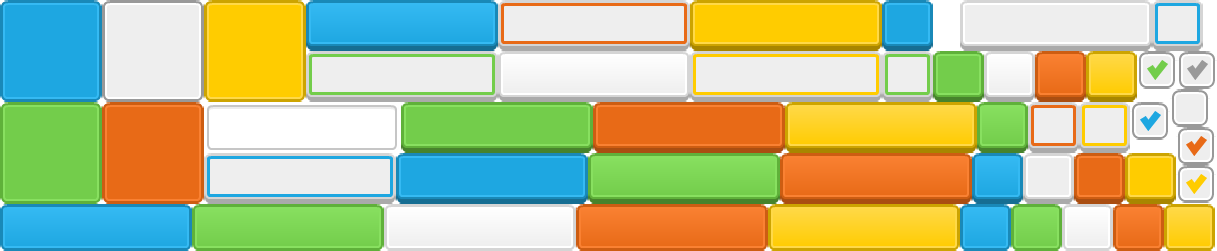
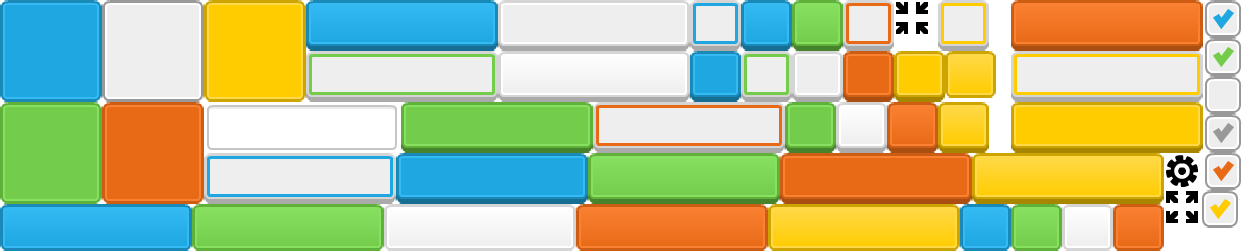
create imageButton and add resources for fullScreen and settings buttons

diff --git a/game/js/ui/Button.js b/game/js/ui/Button.js
@@ -1,36 +1,15 @@
 /* global Phaser */
 
+const AbstractButton = require('./AbstractButton')
 const Label = require('./Label')
 
-class Button extends Phaser.Group {
+class Button extends AbstractButton {
   constructor (game, x, y, text, style, parent) {
-    super(game, parent, 'button')
-
-    this.frame = (style && style.frame) || 'buttonLarge'
-    this.sheet = (style && style.sheet) || 'sheet'
-    this.disabledSheet = (style && style.disabledSheet) || 'grey_out'
-    this.customButton = this.frame.indexOf('button') === 0
-
-    this.frameOver = this.frame + (this.customButton ? '' : '_over')
-    this.frameOut = this.frame + (this.customButton ? '' : '_out')
-    this.frameDown = this.frame + (this.customButton ? '' : '_down')
-
-    this.background = this.game.add.button(0, 0, this.sheet, null, null, this.frameOver, this.frameOut, this.frameDown, this.frameOver, this)
-    this.background.anchor.set(0.5)
-
-    if (style.size === undefined) style.size = this.background.height / 2
+    super(game, x, y, style, parent)
 
     this.label = new Label(this.game, 0, 4, text, style, this)
     this.label.anchor.set(0.5)
 
-    this.x = x
-    this.y = y
-
-    this.clickSound = this.game.add.audio('click')
-
-    this.onInputDown = this.background.onInputDown
-    this.onInputUp = this.background.onInputUp
-    this.background.onInputDown.add(this.playSound, this)
   }
 
   get text () {
@@ -41,17 +20,6 @@ class Button extends Phaser.Group {
     this.label.text = value
   }
 
-  playSound () {
-    this.clickSound.play()
-  }
-
-  set disabled (isDisabled) {
-    if (isDisabled) {
-      this.background.setFrames(this.disabledSheet, this.disabledSheet, this.disabledSheet, this.disabledSheet)
-    } else {
-      this.background.setFrames(this.frameOver, this.frameOut, this.frameDown, this.frameOver)
-    }
-  }
 }
 
 module.exports = Button

diff --git a/game/js/ui/AbstractButton.js b/game/js/ui/AbstractButton.js
@@ -1,0 +1,44 @@
+/* global Phaser */
+
+class AbstractButton extends Phaser.Group {
+  constructor (game, x, y, style, parent) {
+    super(game, parent, 'button')
+
+    this.frame = (style && style.frame) || 'buttonLarge'
+    this.sheet = (style && style.sheet) || 'sheet'
+    this.disabledSheet = (style && style.disabledSheet) || 'grey_out'
+    this.customButton = this.frame.indexOf('button') === 0
+
+    this.frameOver = this.frame + (this.customButton ? '' : '_over')
+    this.frameOut = this.frame + (this.customButton ? '' : '_out')
+    this.frameDown = this.frame + (this.customButton ? '' : '_down')
+
+    this.background = this.game.add.button(0, 0, this.sheet, null, null, this.frameOver, this.frameOut, this.frameDown, this.frameOver, this)
+    this.background.anchor.set(0.5)
+
+    if (style.size === undefined) style.size = this.background.height / 2
+
+    this.x = x
+    this.y = y
+
+    this.clickSound = this.game.add.audio('click')
+
+    this.onInputDown = this.background.onInputDown
+    this.onInputUp = this.background.onInputUp
+    this.background.onInputDown.add(this.playSound, this)
+  }
+
+  playSound () {
+    this.clickSound.play()
+  }
+
+  set disabled (isDisabled) {
+    if (isDisabled) {
+      this.background.setFrames(this.disabledSheet, this.disabledSheet, this.disabledSheet, this.disabledSheet)
+    } else {
+      this.background.setFrames(this.frameOver, this.frameOut, this.frameDown, this.frameOver)
+    }
+  }
+}
+
+module.exports = AbstractButton

diff --git a/game/js/states/MainMenu.js b/game/js/states/MainMenu.js
@@ -1,6 +1,7 @@
 /* global Phaser, SlickUI */
 
 const Button = require('../ui/Button')
+const ImageButton = require('../ui/ImageButton')
 const Plane = require('../actors/Plane')
 const TopBar = require('../actors/TopBar')
 const IdleGains = require('../actors/IdleGains')
@@ -52,7 +53,7 @@ class MainMenu extends Phaser.State {
     this.statsBtn.position.y = this.botsBtn.position.y + this.statsBtn.height + 30
 
     if (this.game.isBrowser) {
-      const fullBtn = new Button(this.game, this.world.width, this.world.height, 'F', styles.btnSmall)
+      const fullBtn = new ImageButton(this.game, this.world.width, this.world.height, 'ui', 'larger', styles.btnSmall)
       fullBtn.onInputUp.add(() => {
         if (this.game.scale.isFullScreen) {
           this.game.scale.stopFullScreen()

diff --git a/game/js/ui/ImageButton.js b/game/js/ui/ImageButton.js
@@ -1,0 +1,16 @@
+/* global Phaser */
+
+const AbstractButton = require('./AbstractButton')
+
+class ImageButton extends AbstractButton {
+  constructor (game, x, y, sheet, frame, style, parent) {
+    super(game, x, y, style, parent)
+
+    this.icon = this.game.add.image(-1,-2,sheet, frame, this)
+    this.icon.anchor.set(0.5)
+
+  }
+
+}
+
+module.exports = ImageButton

diff --git a/game/js/ui/styles.js b/game/js/ui/styles.js
@@ -3,7 +3,7 @@ module.exports = {
    * standard style for buttons
    */
   btnSmall: {
-    frame: 'small_green',
+    frame: 'small_yellow',
     sheet: 'ui',
     bitmap: true,
     font: 'kenvector28',
